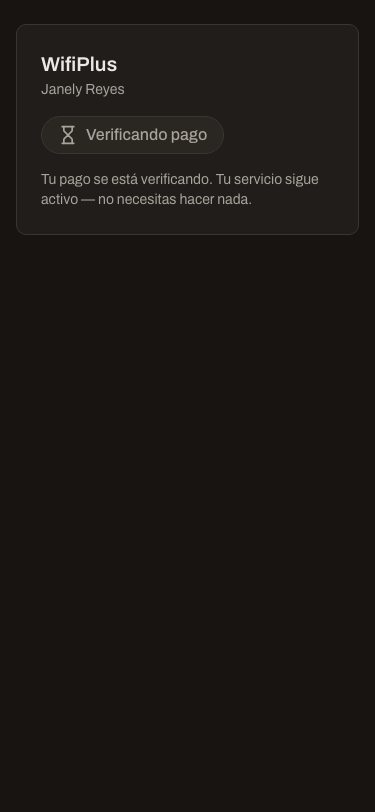
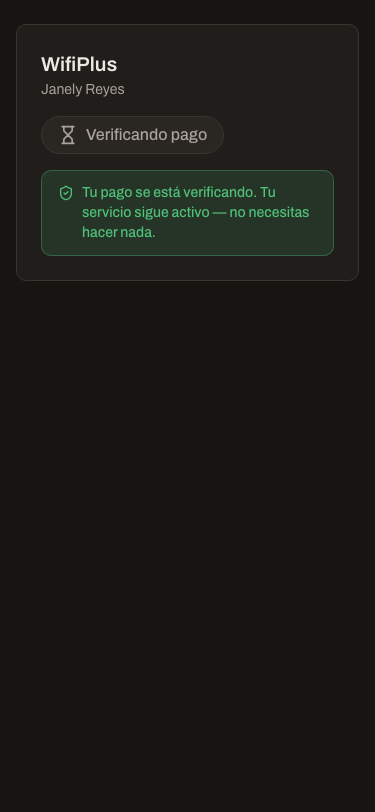
The best news gets its carrier: the release rides a success alert
The design review's one finding, closed in the same cycle. The release
sentence travels in a success Alert — Wifi for the reconnect face,
ShieldCheck for protect — while the badge stays "Verificando pago":
the status is still Banxico's; the good news is the service, and
icon + text keeps the color law. Screenshots re-captured post-fix;
46 pago tests green.

Claude-Session: https://claude.ai/code/session_01QVvSqzUKih3HjH5DXMpTqq

Changed region(s): [[0.088, 0.2155, 0.9093, 0.3387], [0.88, 0.2155, 0.9093, 0.2463]]

diff --git a/apps/pago/src/features/pago/PaymentPage.tsx b/apps/pago/src/features/pago/PaymentPage.tsx
@@ -31,6 +31,7 @@ import {
   ShieldCheck,
   Store,
   TriangleAlert,
+  Wifi,
 } from "lucide-react";
 import {
   Collapsible,
@@ -586,13 +587,22 @@ export function PaymentPage({ token }: { token: string }) {
               const release = status.provisionalRelease ?? null;
 
               if (!notFound) {
-                return (
+                /* Design review 2026-08-27 (Should fix): the page's best
+                   news deserves a visual carrier — the release sentence
+                   rides a success Alert (icon + text, the color law),
+                   while the badge stays "Verificando pago": the status
+                   is still Banxico's; the good news is the service. */
+                return release ? (
+                  <Alert variant="success" layout="icon">
+                    {release.kind === "protect" ? <ShieldCheck aria-hidden /> : <Wifi aria-hidden />}
+                    {release.kind === "protect"
+                      ? "Tu pago se está verificando. Tu servicio sigue activo — no necesitas hacer nada."
+                      : "Tu transferencia está en camino y tu internet ya volvió. Solo esperamos la confirmación de Banxico — no necesitas hacer nada."}
+                  </Alert>
+                ) : (
                   <p className="text-sm text-ink-soft">
-                    {release
-                      ? release.kind === "protect"
-                        ? "Tu pago se está verificando. Tu servicio sigue activo — no necesitas hacer nada."
-                        : "Tu transferencia está en camino y tu internet ya volvió. Solo esperamos la confirmación de Banxico — no necesitas hacer nada."
-                      : "Estamos verificando tu transferencia. Esto puede tomar unos minutos; puedes dejar esta página abierta."}
+                    Estamos verificando tu transferencia. Esto puede tomar unos minutos; puedes
+                    dejar esta página abierta.
                   </p>
                 );
               }
@@ -650,8 +660,15 @@ export function PaymentPage({ token }: { token: string }) {
                     /* D9: one sentence, evidence fused with consequence.
                        The release retires the clock the way `agreed`
                        does — a customer whose service is back must never
-                       read the worry copy. */
-                    <p className="text-sm text-ink-soft">
+                       read the worry copy. Design review 2026-08-27: the
+                       sentence rides a success Alert so the moment of
+                       delight has a visual carrier. */
+                    <Alert variant="success" layout="icon">
+                      {release.kind === "protect" ? (
+                        <ShieldCheck aria-hidden />
+                      ) : (
+                        <Wifi aria-hidden />
+                      )}
                       {release.kind === "protect"
                         ? "Tu pago se está verificando. Tu servicio sigue activo — no necesitas hacer nada."
                         : release.evidence === "agreed"
@@ -659,7 +676,7 @@ export function PaymentPage({ token }: { token: string }) {
                           : release.evidence === "human"
                             ? "Gracias por confirmar tus datos. Tu internet ya volvió mientras Banxico responde."
                             : "Tu transferencia está en camino y tu internet ya volvió. Solo esperamos la confirmación de Banxico — no necesitas hacer nada."}
-                    </p>
+                    </Alert>
                   ) : farAway ? (
                     /* D5: promise only what the system will do — the
                        cron keeps this hour; nobody "sends news" */

diff --git a/.design/devolada/DESIGN_REVIEW.md b/.design/devolada/DESIGN_REVIEW.md
@@ -47,16 +47,15 @@ alone.
 
 ## Should Fix
 
-1. **The release sentence deserves a visual carrier**: in
-   `review-pago-liberado-pendiente-375.png` and
-   `review-pago-liberado-evidencia-375.png`, the page's biggest moment —
-   the internet is back — renders as `text-ink-soft` body copy under the
-   hourglass badge, visually identical to "Estamos verificando…". The
-   surplus alert of US-D13 set the precedent: a load-bearing sentence
-   rides an `Alert` with an icon. _Fix: carry the release sentence in an
-   `Alert variant="success" layout="icon"` (e.g. `Wifi` icon) while the
-   badge stays "Verificando pago" — the status is still Banxico's; the
-   good news is the service, and icon + text keeps the color law._
+1. **The release sentence deserves a visual carrier** — **FIXED
+   2026-08-27, same review cycle**: the release sentence now rides an
+   `Alert variant="success" layout="icon"` — `Wifi` for the reconnect
+   face, `ShieldCheck` for protect — while the badge stays "Verificando
+   pago": the status is still Banxico's; the good news is the service,
+   and icon + text keeps the color law. The screenshots in this folder
+   are the post-fix captures; the pre-fix state (soft body copy under
+   the hourglass badge, visually identical to "Estamos verificando…")
+   lives in git history one commit back.
 
 ## Could Improve
 
